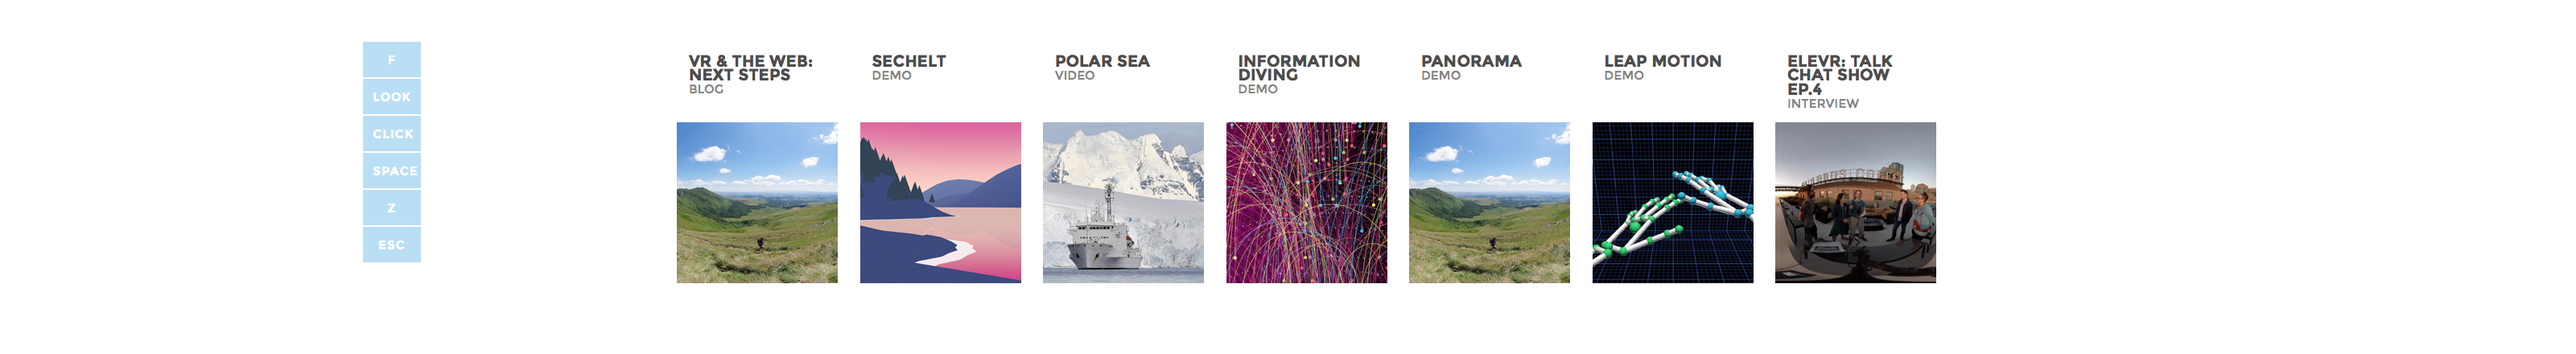
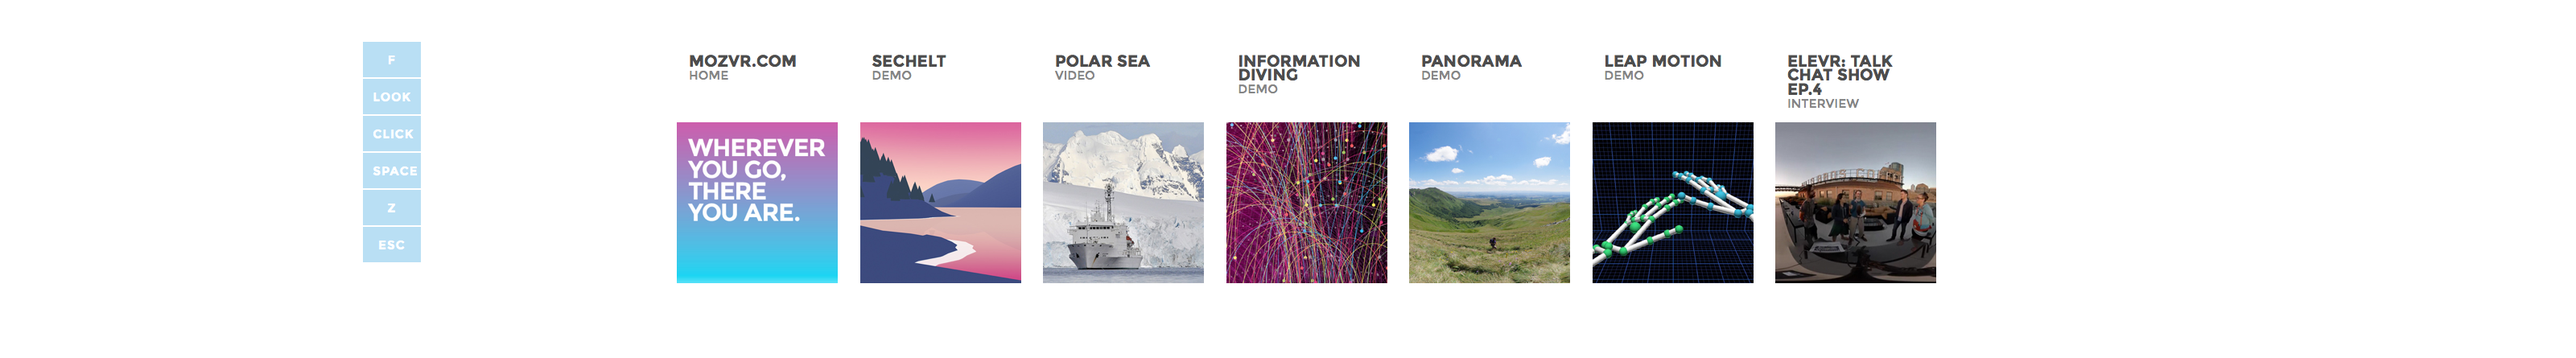
home button, larger titling text

diff --git a/hiro-ui/build/index.html b/hiro-ui/build/index.html
@@ -1,1 +1,1 @@
-<!DOCTYPE html><html><head><meta charset="utf-8"><meta name="description" content=""><meta name="viewport" content="width=device-width, initial-scale=1"><link rel="stylesheet" href="css/style.css"><link rel="stylesheet" href="fonts/montserrat/montserrat.css" type="text/css"><title>Hiro UI</title><script id="uidata" type="text/json"></script></head><body><div class="content"><div class="header">HIRO UI</div><div class="cf"></div><div class="break"></div><!--	hr--><!--	| Current Site--><div id="current" data-mesh><div id="current-title" data-textarea data-hostmesh="current" class="title">Sechelt</div><div id="current-url" data-textarea data-hostmesh="current" class="url">mozvr.github.io/sechelt</div><div id="current-credits" data-textarea data-hostmesh="current" class="credits">Josh Carpenter<br>Ricardo Cabello<br>&#8212<br>Three.js, Tween.js, Cinema 4D</div></div><div class="cf"></div><div class="break"></div><!--	hr--><!--	| Favorites--><div id="favorites" class="section"><div id="favorites-title" data-mesh class="title">Nov 2014</div><div id="next" data-mesh class="fav"><div class="fav-inner">VR &amp; The Web: Next Steps<div class="type">Blog</div></div><img src="images/thumbs/panoramas-1.jpg"></div><div id="Sechelt" data-mesh class="fav"><div class="fav-inner">Sechelt<div class="type">Demo</div></div><img src="images/thumbs/sechelt-1.jpg"></div><div id="polar" data-mesh class="fav"><div class="fav-inner">Polar Sea<div class="type">Video</div></div><img src="images/thumbs/polarsea-1.jpg"></div><div id="diving" data-mesh class="fav"><div class="fav-inner">Information Diving<div class="type">Demo</div></div><img src="images/thumbs/infodive-1.jpg"></div><div id="pano" data-mesh class="fav"><div class="fav-inner">Panorama<div class="type">Demo</div></div><img src="images/thumbs/panoramas-1.jpg"></div><div id="leap" data-mesh class="fav"><div class="fav-inner">Leap Motion<div class="type">Demo</div></div><img src="images/thumbs/leap-1.jpg"></div><div id="elevr4" data-mesh class="fav"><div class="fav-inner">elevr: Talk Chat Show ep.4<div class="type">Interview</div></div><img src="images/thumbs/elevr-1.jpg"></div></div><div class="cf"></div><div class="break"></div><!--	hr--><!--	| Tips--><div id="tips" data-mesh><ul class="tip"><li class="key">Esc</li><li class="text">Exit VR</li></ul><ul class="tip"><li class="key">Z</li><li class="text">Center view</li></ul></div><div class="cf"></div><div class="break"></div><!--	hr--><!--	| Health &amp Safety--><div id="health" data-mesh class="section"><div class="title">Health &amp Safety</div><p>Read and follow all warnings and instructions included with the headset before use. Headset should be calibrated for each other. Not for use by children under 7. Stop use if you experience any discomfort or health reactions. More: oculus.com/warnings</p></div><div class="cf"></div><div class="break"></div><!--	hr--><!--	| Controls--><div id="controls" data-mesh class="section"><div class="title">Controls</div><ul><li><div class="key">F</div><div class="text">VR mode</div></li><li><div class="key">Look</div><div class="text">Look</div></li><li><div class="key">Click</div><div class="text">Select</div></li><li><div class="key">Space</div><div class="text">Menu</div></li><li><div class="key">Z</div><div class="text">Center view</div></li><li><div class="key">Esc</div><div class="text">Exit VR</div></li></ul></div><div class="cf"></div><div class="break"></div><!--	hr--><!--	| Credits--><div id="credits" data-mesh class="section"><div class="logo"><img src="images/logo-mozvr-1.svg"></div><ul><li>&#821</li><li>Casey Yee</li><li>Josh Carpenter</li><li>Diego Marcos</li><li>Vlad Vukicevic</li><li>Matthew Claypotch</li><li>&#8212</li><li>Special thanks to:</li><li>Ricardo Cabello</li><li>&#8212</li><li>Built with WebGL</li></ul></div></div></body></html>
+<!DOCTYPE html><html><head><meta charset="utf-8"><meta name="description" content=""><meta name="viewport" content="width=device-width, initial-scale=1"><link rel="stylesheet" href="css/style.css"><link rel="stylesheet" href="fonts/montserrat/montserrat.css" type="text/css"><title>Hiro UI</title><script id="uidata" type="text/json"></script></head><body><div class="content"><div class="header">HIRO UI</div><div class="cf"></div><div class="break"></div><!--	hr--><!--	| Current Site--><div id="current" data-mesh><div id="current-title" data-textarea data-hostmesh="current" class="title">Sechelt</div><div id="current-url" data-textarea data-hostmesh="current" class="url">mozvr.github.io/panorama-viewer</div><div id="current-credits" data-textarea data-hostmesh="current" class="credits">Josh Carpenter<br>Ricardo Cabello<br>&#8212<br>Three.js, Tween.js, Cinema 4D</div></div><div class="cf"></div><div class="break"></div><!--	hr--><!--	| Favorites--><div id="favorites" class="section"><div id="favorites-title" data-mesh class="title">Nov 2014</div><div id="home" data-mesh class="fav"><div class="fav-inner">MozVR.com<div class="type">Home</div></div><img src="images/thumbs/home-1.jpg"></div><div id="Sechelt" data-mesh class="fav"><div class="fav-inner">Sechelt<div class="type">Demo</div></div><img src="images/thumbs/sechelt-1.jpg"></div><div id="polar" data-mesh class="fav"><div class="fav-inner">Polar Sea<div class="type">Video</div></div><img src="images/thumbs/polarsea-1.jpg"></div><div id="diving" data-mesh class="fav"><div class="fav-inner">Information Diving<div class="type">Demo</div></div><img src="images/thumbs/infodive-1.jpg"></div><div id="pano" data-mesh class="fav"><div class="fav-inner">Panorama<div class="type">Demo</div></div><img src="images/thumbs/panoramas-1.jpg"></div><div id="leap" data-mesh class="fav"><div class="fav-inner">Leap Motion<div class="type">Demo</div></div><img src="images/thumbs/leap-1.jpg"></div><div id="elevr4" data-mesh class="fav"><div class="fav-inner">elevr: Talk Chat Show ep.4<div class="type">Interview</div></div><img src="images/thumbs/elevr-1.jpg"></div></div><div class="cf"></div><div class="break"></div><!--	hr--><!--	| Tips--><div id="tips" data-mesh><ul class="tip"><li class="key">Esc</li><li class="text">Exit VR</li></ul><ul class="tip"><li class="key">Z</li><li class="text">Center view</li></ul></div><div class="cf"></div><div class="break"></div><!--	hr--><!--	| Health &amp Safety--><div id="health" data-mesh class="section"><div class="title">Health &amp Safety</div><p>Read and follow all warnings and instructions included with the headset before use. Headset should be calibrated for each other. Not for use by children under 7. Stop use if you experience any discomfort or health reactions. More: oculus.com/warnings</p></div><div class="cf"></div><div class="break"></div><!--	hr--><!--	| Controls--><div id="controls" data-mesh class="section"><div class="title">Controls</div><ul><li><div class="key">F</div><div class="text">VR mode</div></li><li><div class="key">Look</div><div class="text">Look</div></li><li><div class="key">Click</div><div class="text">Select</div></li><li><div class="key">Space</div><div class="text">Menu</div></li><li><div class="key">Z</div><div class="text">Center view</div></li><li><div class="key">Esc</div><div class="text">Exit VR</div></li></ul></div><div class="cf"></div><div class="break"></div><!--	hr--><!--	| Credits--><div id="credits" data-mesh class="section"><div class="logo"><img src="images/logo-mozvr-1.svg"></div><ul><li>&#821</li><li>Casey Yee</li><li>Josh Carpenter</li><li>Diego Marcos</li><li>Vlad Vukicevic</li><li>Matthew Claypotch</li><li>&#8212</li><li>Special thanks to:</li><li>Ricardo Cabello</li><li>&#8212</li><li>Built with WebGL</li></ul></div></div></body></html>

diff --git a/hiro-ui/build/css/style.css b/hiro-ui/build/css/style.css
@@ -81,26 +81,26 @@ body {
   padding: 1.5rem;
   position: relative; }
   #current .title {
-    width: 62%;
+    width: 70%;
     padding: 1rem 1.2rem;
     color: #4d4d4d;
     background: white;
-    font-size: 2rem;
+    font-size: 2.2rem;
     letter-spacing: 0.05rem;
     font-weight: 700; }
   #current .url {
-    width: 62%;
+    width: 70%;
     padding: 0.8rem 1.2rem;
     color: white;
     background-color: rgba(255, 255, 255, 0.25);
-    font-size: 1.5rem;
+    font-size: 1.75rem;
     letter-spacing: 0.15rem; }
   #current .credits {
     width: 100%;
     list-style: none;
     margin: 0;
     padding: 0;
-    font-size: 2rem;
+    font-size: 1.75rem;
     letter-spacing: 0.05rem;
     position: absolute;
     bottom: 1.5rem; }
@@ -167,7 +167,7 @@ body {
     padding: 0.6rem; }
   .tip .key {
     width: 7rem;
-    border: 0.25rem solid white;
+    border: 0.5rem solid white;
     text-align: center;
     font-weight: 700; }
   .tip .text {
@@ -183,7 +183,8 @@ body {
     background: rgba(255, 255, 255, 0.5); }
 
 .section {
-  border-top: 0.8rem solid rgba(255, 255, 255, 0.2);
+  box-shadow: inset 0 0.8rem 0 0 rgba(255, 255, 255, 0.2);
+  padding-top: 0.8rem;
   text-transform: uppercase;
   font-size: 1.5rem;
   letter-spacing: 0.1rem;

diff --git a/hiro-ui/src/sass/style.scss b/hiro-ui/src/sass/style.scss
@@ -141,21 +141,21 @@ body {
 	position: relative;
 
 	.title {
-		width: 62%;
+		width: 70%;
 		padding: 1rem 1.2rem;
 		color: rgba( 77, 77, 77, 1 );
 		background: rgba( 255, 255, 255, 1 );
-		font-size: $font-med;
+		font-size: 2.2rem;
 		letter-spacing: 0.05rem;
 		font-weight: 700;
 	}
 
 	.url {
-		width: 62%;
+		width: 70%;
 		padding: 0.8rem 1.2rem;
 		color: white;
 		background-color: rgba( 255, 255, 255, 0.25 );
-		font-size: $font-small;
+		font-size: 1.75rem;
 		letter-spacing: 0.15rem;
 	}
 
@@ -165,7 +165,7 @@ body {
 		list-style: none;
 		margin: 0;
 		padding: 0;
-		font-size: $font-med;
+		font-size: 1.75rem;
 		letter-spacing: 0.05rem;
 		position: absolute;
 		bottom: 1.5rem;
@@ -265,7 +265,7 @@ body {
 
 	.key {
 		width: 7rem;
-		border: 0.25rem solid white;
+		border: 0.50rem solid white;
 		text-align: center;
 		font-weight: 700;
 
@@ -293,7 +293,9 @@ body {
 //---------- Section ----------//
 
 .section {
-	border-top: 0.8rem solid rgba( 255, 255, 255, 0.2 );
+	//border-top: 0.8rem solid rgba( 255, 255, 255, 0.2 );
+	box-shadow: inset 0 0.8rem 0 0 rgba( 255, 255, 255, 0.2 );
+	padding-top: 0.8rem;
 	text-transform: uppercase;
 	font-size: $font-small;
 	letter-spacing: 0.1rem;
